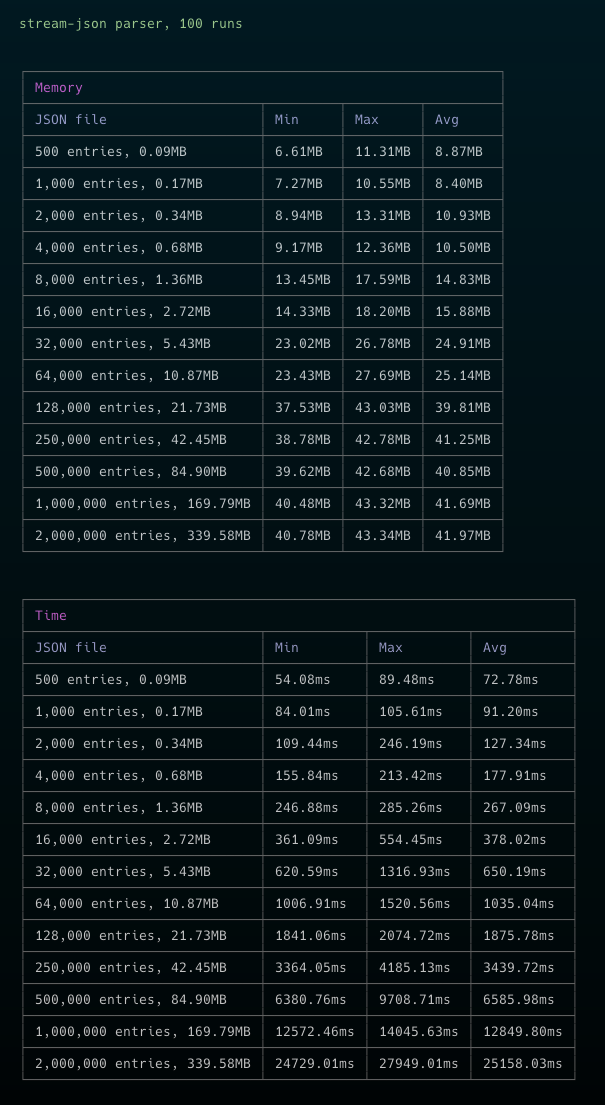
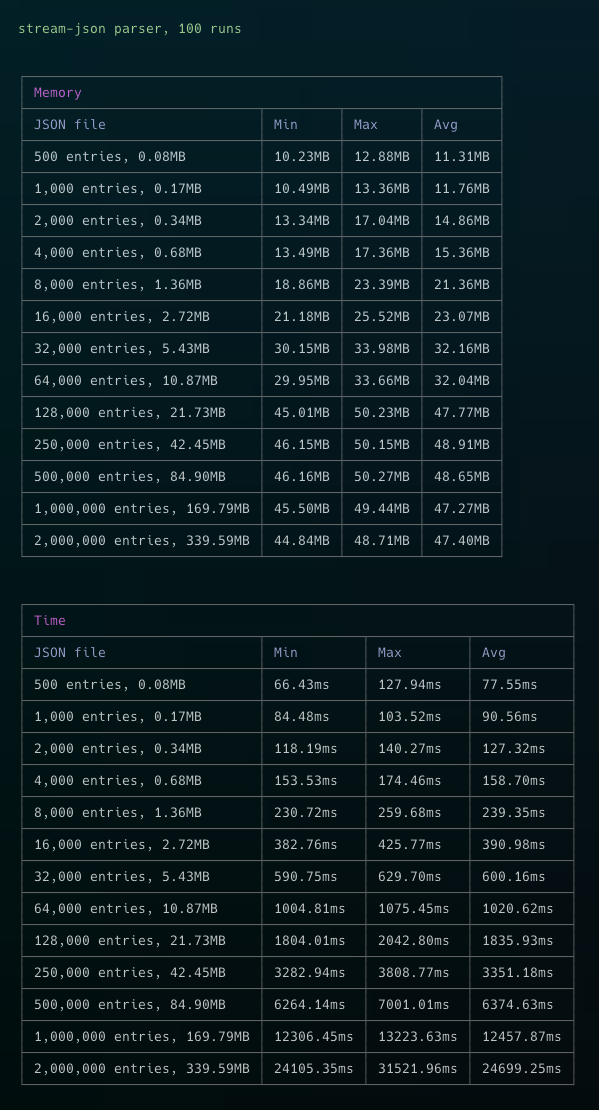
update measurements

diff --git a/README.md b/README.md
@@ -35,11 +35,11 @@ yarn bench stream-json
 
 | basic | stream-json |
 |----|----|
-| <img src="./screenshots/mac-basic.png" width="500"> |  <img src="./screenshots/mac-stream-json.png" width="535"> |
+| <img src="./screenshots/mac-basic.png" width="500"> |  <img src="./screenshots/mac-stream-json.png" width="510"> |
 
 
 ## Results on an AWS EC2 t3.medium instance (2 vCPU, 4GB) with Node v16.19.0
 
 | basic | stream-json |
 |----|----|
-| <img src="./screenshots/ec2-basic.png" width="525"> |  <img src="./screenshots/ec2-stream-json.png" width="535"> |
+| <img src="./screenshots/ec2-basic.png" width="520"> |  <img src="./screenshots/ec2-stream-json.png" width="535"> |
